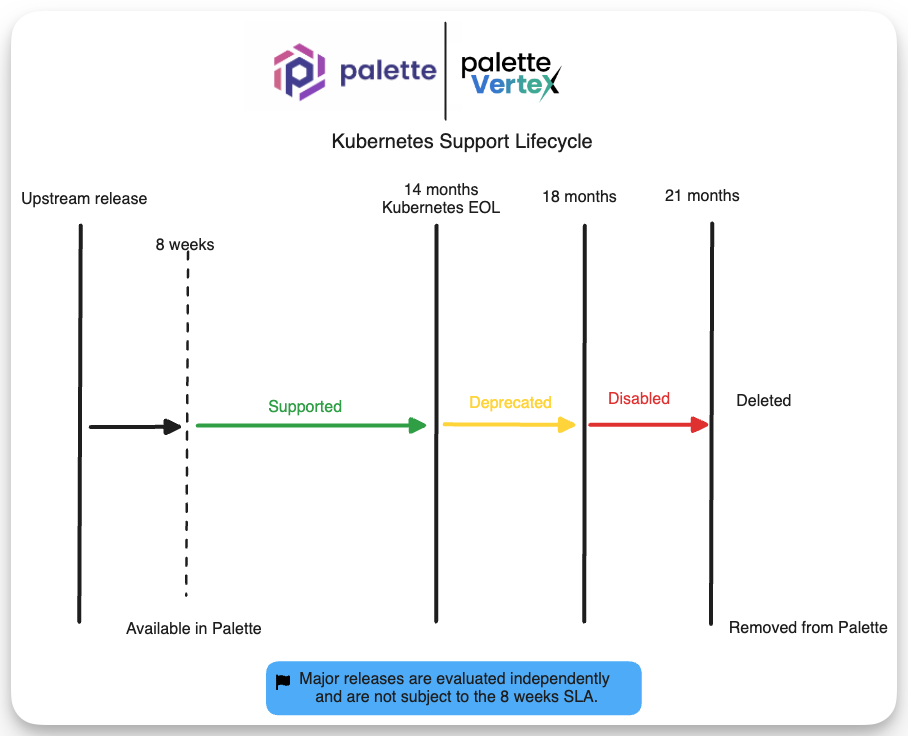
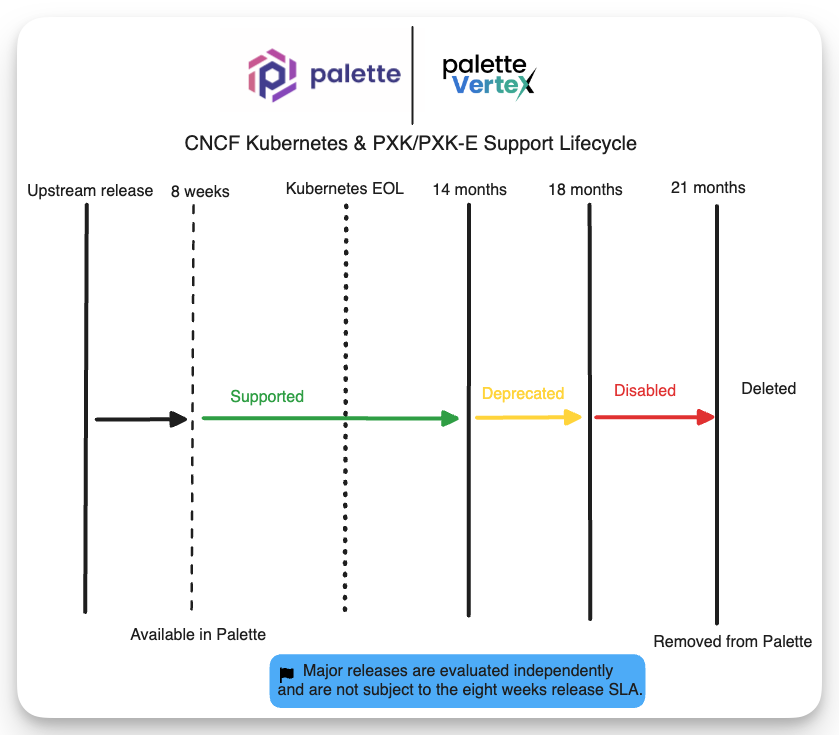
docs: updated content

diff --git a/docs/docs-content/integrations/kubernetes-support.md b/docs/docs-content/integrations/kubernetes-support.md
@@ -11,13 +11,13 @@ tags: ["packs", "support", "kubernetes", "lifecycle"]
 
 ## Overview
 
-We follow a similar lifecycle as established by the Kubernetes community. You can learn more about the offical supported Kubernetes release in the [Kubernetes Releases](https://kubernetes.io/releases/) page. This means we support three minor Kubernetes versions at any given time. We support the current release and the three previous minor version releases, also known as N-3. For example, if the current release is 1.29, we support 1.28, 1.27, and 1.26.
+We follow a similar lifecycle as established by the Kubernetes community. You can learn more about the offical supported Cloud Native Computing Foundation (CNCF) Kubernetes release cycle in the [Kubernetes Releases](https://kubernetes.io/releases/) page. This means we support three minor Kubernetes versions at any given time. We support the current release and the three previous minor version releases, also known as N-3. For example, if the current release is 1.29, we support 1.28, 1.27, and 1.26.
 
 The table below lists the Kubernetes distributions we support and the duration of support.
 
 | Kubernetes Distribution | Supported Minor Versions | Support Duration | Notes |
 | ----------------------- | ------------------ | ---------------- | ----- |
-| Upstream Kubernetes     | N-3                | 14 months        |  The offical open-source version of [Kubernetes](https://kubernetes.io/).    |
+| CNF Kubernetes     | N-3                | 14 months        |  The offical open-source version of [Kubernetes](https://kubernetes.io/).    |
 | Palette eXtended Kubernetes (PXK) | N-3                | 14 months   | Additional support may be extended. Discuss this with our support team if you need additional support. |
 | Palette eXtended Kubernetes - Edge (PXK-E) | N-3                | 14 months        | Additional support may be extended. Discuss this with our support team if you need additional support. |
 | Other       | N-3                | EOL       | Other distributions availabe in Palette such as K3s, Microk8s, and RKE2, we only support until their offical EOL. The EOL is set by the respective owner. |
@@ -31,13 +31,13 @@ Kubernetes follows the [semantic version schema](https://semver.org/). Versions 
 We support N-3 Kubernetes minor versions until the offical End-Of-Life (EOL). Once we stop supporting the minor version, we initiate the deprecation process. You can learn more about our deprecation process in the [Pack Deprecation](./maintenance-policy.md#pack-deprecations) section. 
 
 
-## Palette eXtended Kubernetes (PXK) Support
+## Palette eXtended Kubernetes Support
 
-We support PXK and PXKE- for N-3 Kubernetes minor versions for a duration of 14 months. The duration exceeds the offical EOL by four months. Once we stop supporting the minor version, we initiate the deprecation process. Y
+We support CNCF Kubernetes, [Palette eXtended Kubernetes (PXK)](./kubernetes.md) and [PXK-E](./kubernetes-edge.md) for N-3 Kubernetes minor versions for a duration of 14 months. The duration exceeds the offical EOL by four months. Once we stop supporting the minor version, we initiate the deprecation process. 
 
 The diagram below illustrates the support lifecycle of a Kubernetes version. A deprecated Kubernetes version will no longer receive updates.
 
-![Kubernetes Support Lifecycle](/integrations_kubernetes-support_support-cycle.png)
+![Diagram of the Kubernetes Support Lifecycle. PXK and CNCF is supported for 14 months. After that, normal deprecation flow is initiated.](/integrations_kubernetes-support_support-cycle.png)
 
 Additional support may be extended for PXK and PXK-E. Discuss this with our support team if you need extend support. You can contact our support team at [support@spectrocloud.com](mailto:support@spectrocloud.com).
 
@@ -45,6 +45,9 @@ Additional support may be extended for PXK and PXK-E. Discuss this with our supp
 ## Other Kubernetes Distributions
 
 We support other Kubernetes distributions such as K3s, Microk8s, and RKE2 until their offical EOL. The EOL is set by the respective owner. Once we stop supporting the minor version, we initiate the deprecation process. You can learn more about our deprecation process in the [Pack Deprecation](./maintenance-policy.md#pack-deprecations) section.
+
+
+![Diagram of other Kubernetes Support Lifecycle. Other distros are supported until their EOL. After that, normal deprecation flow is initiated.](/integrations_kubernetes-support_support-cycle_other.png)
 
 
 ## Kubernetes Upgrades 
